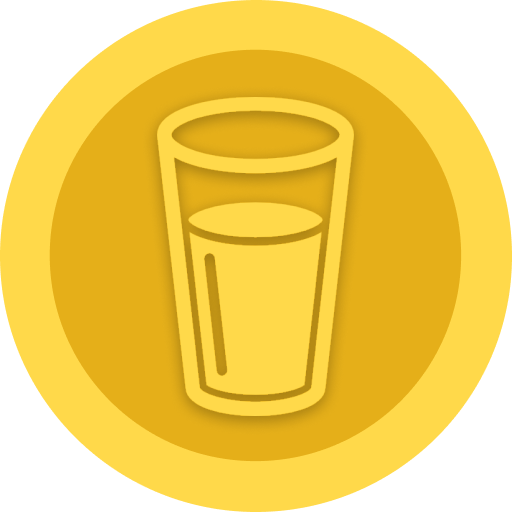
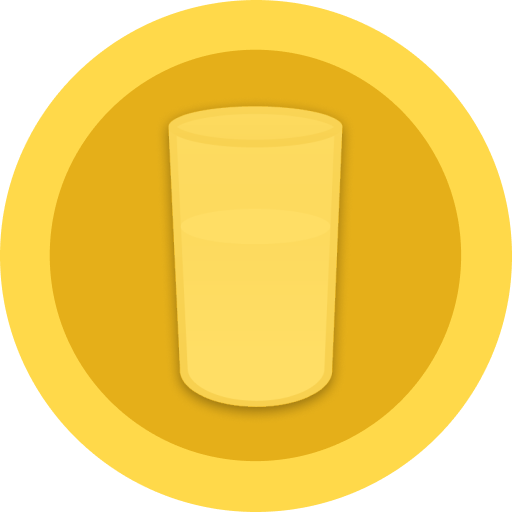
feat: add balance.js, update tails.png, reformat embeds
- added /balance to show user balance
- reformatted embed for /coinflip
- uploaded new tails.png for consistency with heads.png

Changed region(s): [[0.2812, 0.1875, 0.7188, 0.8438]]

diff --git a/commands/utility/coinflip.js b/commands/utility/coinflip.js
@@ -11,8 +11,8 @@ module.exports = {
             option.setName("selection")
                 .setDescription("Heads or tails")
                 .addChoices(
-                    { name: "heads", value: "Heads"},
-                    { name: "tails", value: "Tails"}
+                    { name: "heads", value: "heads"},
+                    { name: "tails", value: "tails"}
                 )
                 .setRequired(true))
         .addNumberOption(option =>
@@ -22,6 +22,8 @@ module.exports = {
                 .setMinValue(1)),
 
 	async execute(interaction) {
+        if (debug) console.log("In coinflip:")
+
         const name = interaction.member.nickname ? interaction.member.nickname : interaction.user.username;
         const avatar = interaction.user.displayAvatarURL();
         const userId = interaction.user.id;
@@ -41,12 +43,12 @@ module.exports = {
                 })
                 .setTitle("Not enough money")
                 .setDescription(`You don't have enough money to wager this amount!`)
-                .setFooter({ text: `Balance: ${balance}` })
+                .setFooter({ text: `Balance: ${balance}🥛` })
             ]})
             return;
         }
 
-        const result = Math.random() < 0.5 ? 'Heads' : 'Tails';
+        const result = Math.random() < 0.5 ? 'heads' : 'tails';
         const input = interaction.options.getString("selection");
 
         const embed = new EmbedBuilder()
@@ -55,32 +57,34 @@ module.exports = {
                 name: name,
                 iconURL: avatar
             })
-            .setTitle((input === result) ? "You win!" : "You lose.")
-            .setDescription(`The coin landed on **${result}**`);
+        
+        let wagerDisplay;
 
         // update user balance
         if (input === result) {
-            embed.setTitle(`You win! +${wager}`);
+            embed.setTitle(`You win!`);
+            wagerDisplay = `**+${wager}:milk:**`
             await updateBalance(userId, wager);
         }
         else {
-            embed.setTitle(`You lose. -${wager}`);
+            embed.setTitle(`You lose.`);
+            wagerDisplay = `**-${wager}:milk:**`
             await updateBalance(userId, -wager);
         }
 
-        const newBalance = await retrieveBalance(userId);
-        embed.setFooter({ text: `Balance: ${newBalance}` });
-        
+        embed.setDescription(`The coin landed on **${result}**\n${wagerDisplay}`);
 
+        const newBalance = await retrieveBalance(userId);
+        embed.setFooter({ text: `Balance: ${newBalance}🥛` });
         
         // handle thumbnail
-        const file = (result === "Heads") ? new AttachmentBuilder("./assets/heads.png") : new AttachmentBuilder("./assets/tails.png");
+        const file = (result === "heads") ? new AttachmentBuilder("./assets/heads.png") : new AttachmentBuilder("./assets/tails.png");
 
-        if(result === "Heads") {
+        if(result === "heads") {
             embed.setThumbnail("attachment://heads.png");
         }
         else {
-            embed.setThumbnail("attachment://tails.png")
+            embed.setThumbnail("attachment://tails.png");
         }
 
 		await interaction.reply({ embeds: [embed], files: [file] });

diff --git a/commands/utility/balance.js b/commands/utility/balance.js
@@ -1,0 +1,32 @@
+const debug = true
+
+const { SlashCommandBuilder, EmbedBuilder, AttachmentBuilder } = require('discord.js');
+const { retrieveBalance } = require('../../sqlite');
+
+module.exports = {
+	data: new SlashCommandBuilder()
+		.setName('balance')
+		.setDescription('Retrieves balance'),
+
+	async execute(interaction) {
+        const name = interaction.member.nickname ? interaction.member.nickname : interaction.user.username;
+        const avatar = interaction.user.displayAvatarURL();
+        const userId = interaction.user.id;
+
+        const balance = await retrieveBalance(userId);
+
+        if (debug) console.log(`Balance: ${balance}`);
+
+        const embed = new EmbedBuilder()
+            .setColor(0x0099FF)
+            .setAuthor({
+                name: name,
+                iconURL: avatar
+            })
+            .setTitle(`Your balance: ${balance}🥛`)
+
+        // embed.setFooter({ text: `Balance: ${balance}` });
+
+		await interaction.reply({ embeds: [embed] });
+	},
+};
